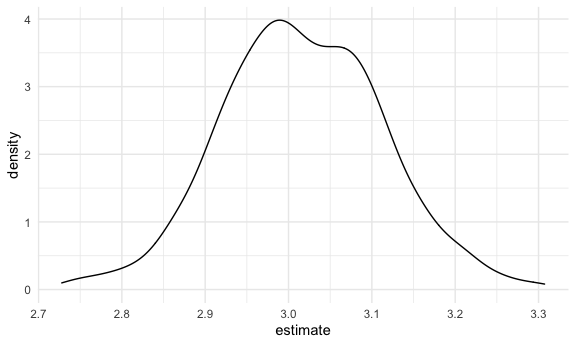
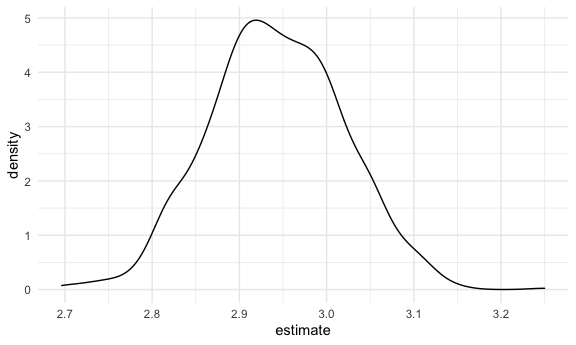
final

diff --git a/bootstrapping.md b/bootstrapping.md
@@ -45,8 +45,8 @@ lm(y ~ x, data = sim_df_const) %>%
 
 | term        | estimate | std.error | statistic | p.value |
 | :---------- | -------: | --------: | --------: | ------: |
-| (Intercept) |    2.065 |     0.086 |    23.998 |       0 |
-| x           |    2.991 |     0.061 |    49.302 |       0 |
+| (Intercept) |    1.917 |     0.084 |    22.877 |       0 |
+| x           |    3.067 |     0.060 |    51.385 |       0 |
 
 ``` r
 lm(y ~ x, data = sim_df_nonconst) %>% 
@@ -56,8 +56,8 @@ lm(y ~ x, data = sim_df_nonconst) %>%
 
 | term        | estimate | std.error | statistic | p.value |
 | :---------- | -------: | --------: | --------: | ------: |
-| (Intercept) |    2.013 |     0.088 |    22.758 |       0 |
-| x           |    3.023 |     0.062 |    48.476 |       0 |
+| (Intercept) |    2.098 |     0.084 |    25.057 |       0 |
+| x           |    2.939 |     0.060 |    49.292 |       0 |
 
 ## draw one bootstrap sample
 
@@ -125,18 +125,18 @@ boot_straps %>% pull(strap_sample) %>% .[[1]]
 ```
 
     ## # A tibble: 250 x 3
-    ##         x    error     y
-    ##     <dbl>    <dbl> <dbl>
-    ##  1  1.94  -0.716    7.10
-    ##  2 -1.13  -0.0438  -1.43
-    ##  3  1.38   0.00406  6.15
-    ##  4  0.337 -0.391    2.62
-    ##  5  0.815  0.480    4.92
-    ##  6  0.982  0.487    5.43
-    ##  7  0.406 -0.479    2.74
-    ##  8  1.07  -0.781    4.43
-    ##  9  0.156 -0.00644  2.46
-    ## 10  2.40   1.71    10.9 
+    ##         x   error      y
+    ##     <dbl>   <dbl>  <dbl>
+    ##  1  1.03  -0.421   4.67 
+    ##  2  1.00  -0.251   4.75 
+    ##  3  1.24  -0.982   4.73 
+    ##  4  0.465 -0.144   3.25 
+    ##  5  2.64  -0.399   9.51 
+    ##  6  1.38  -0.375   5.75 
+    ##  7  1.38  -0.375   5.75 
+    ##  8 -0.340 -0.0445  0.935
+    ##  9  1.23   0.155   5.84 
+    ## 10  3.69  -1.07   12.0  
     ## # … with 240 more rows
 
 ``` r
@@ -148,34 +148,34 @@ boot_straps %>%
 
     ## [[1]]
     ## # A tibble: 250 x 3
-    ##         x   error       y
-    ##     <dbl>   <dbl>   <dbl>
-    ##  1 -1.13  -0.0438 -1.43  
-    ##  2 -1.01  -0.596  -1.64  
-    ##  3 -1.01  -0.596  -1.64  
-    ##  4 -0.806  0.754   0.336 
-    ##  5 -0.806  0.754   0.336 
-    ##  6 -0.806  0.754   0.336 
-    ##  7 -0.625 -0.0889  0.0369
-    ##  8 -0.556 -0.614  -0.282 
-    ##  9 -0.488 -0.402   0.134 
-    ## 10 -0.483  0.764   1.31  
+    ##         x  error       y
+    ##     <dbl>  <dbl>   <dbl>
+    ##  1 -1.78  -1.40  -4.73  
+    ##  2 -1.78  -1.40  -4.73  
+    ##  3 -1.70   1.44  -1.67  
+    ##  4 -1.70   1.44  -1.67  
+    ##  5 -1.70   1.44  -1.67  
+    ##  6 -1.66   1.99  -0.999 
+    ##  7 -1.66   1.99  -0.999 
+    ##  8 -0.955  1.04   0.177 
+    ##  9 -0.955  1.04   0.177 
+    ## 10 -0.868  0.537 -0.0678
     ## # … with 240 more rows
     ## 
     ## [[2]]
     ## # A tibble: 250 x 3
-    ##         x   error       y
-    ##     <dbl>   <dbl>   <dbl>
-    ##  1 -1.13  -0.0438 -1.43  
-    ##  2 -1.01  -0.596  -1.64  
-    ##  3 -1.01  -0.596  -1.64  
-    ##  4 -1.01  -0.596  -1.64  
-    ##  5 -0.806  0.754   0.336 
-    ##  6 -0.806  0.754   0.336 
-    ##  7 -0.806  0.754   0.336 
-    ##  8 -0.732 -0.193  -0.389 
-    ##  9 -0.732 -0.193  -0.389 
-    ## 10 -0.625 -0.0889  0.0369
+    ##         x    error         y
+    ##     <dbl>    <dbl>     <dbl>
+    ##  1 -1.78  -1.40    -4.73    
+    ##  2 -1.66   1.99    -0.999   
+    ##  3 -1.66   1.99    -0.999   
+    ##  4 -0.868  0.537   -0.0678  
+    ##  5 -0.700  1.18     1.08    
+    ##  6 -0.700  1.18     1.08    
+    ##  7 -0.669  0.00815  0.000595
+    ##  8 -0.617  0.0335   0.181   
+    ##  9 -0.617  0.0335   0.181   
+    ## 10 -0.617  0.0335   0.181   
     ## # … with 240 more rows
 
 ``` r
@@ -210,16 +210,16 @@ boot_results
     ## # A tibble: 2,000 x 6
     ##    strap_number term        estimate std.error statistic   p.value
     ##           <int> <chr>          <dbl>     <dbl>     <dbl>     <dbl>
-    ##  1            1 (Intercept)     2.06    0.0782      26.3 1.15e- 73
-    ##  2            1 x               2.96    0.0540      54.7 1.75e-140
-    ##  3            2 (Intercept)     2.00    0.0852      23.5 5.12e- 65
-    ##  4            2 x               3.12    0.0579      53.9 6.85e-139
-    ##  5            3 (Intercept)     1.97    0.0809      24.3 1.45e- 67
-    ##  6            3 x               3.08    0.0576      53.4 5.22e-138
-    ##  7            4 (Intercept)     2.07    0.112       18.5 1.96e- 48
-    ##  8            4 x               2.91    0.0761      38.2 7.27e-106
-    ##  9            5 (Intercept)     2.08    0.0841      24.7 7.87e- 69
-    ## 10            5 x               2.98    0.0580      51.4 3.42e-134
+    ##  1            1 (Intercept)     2.13    0.0820      26.0 7.61e- 73
+    ##  2            1 x               2.84    0.0585      48.6 8.22e-129
+    ##  3            2 (Intercept)     2.03    0.0869      23.4 1.41e- 64
+    ##  4            2 x               2.99    0.0628      47.6 8.24e-127
+    ##  5            3 (Intercept)     2.02    0.0805      25.1 6.78e- 70
+    ##  6            3 x               3.05    0.0597      51.1 1.32e-133
+    ##  7            4 (Intercept)     2.10    0.0754      27.9 2.49e- 78
+    ##  8            4 x               3.00    0.0532      56.4 1.70e-143
+    ##  9            5 (Intercept)     2.00    0.0744      26.8 3.27e- 75
+    ## 10            5 x               2.99    0.0512      58.4 5.82e-147
     ## # … with 1,990 more rows
 
 What do we have now?
@@ -237,8 +237,8 @@ boot_results %>%
 
 | term        | mean\_est | boot\_se |
 | :---------- | --------: | -------: |
-| (Intercept) |     2.013 |    0.062 |
-| x           |     3.017 |    0.096 |
+| (Intercept) |     2.095 |    0.062 |
+| x           |     2.942 |    0.077 |
 
 ``` r
 ## bootstrap help us get the actual standard error under repeated sampling not assuming constant variance
@@ -270,8 +270,8 @@ boot_results %>%
     ## # A tibble: 2 x 3
     ##   term        ci_lower ci_upper
     ##   <chr>          <dbl>    <dbl>
-    ## 1 (Intercept)     1.89     2.14
-    ## 2 x               2.83     3.21
+    ## 1 (Intercept)     1.97     2.21
+    ## 2 x               2.80     3.09
 
 ``` r
 boot_straps %>% 
@@ -309,5 +309,88 @@ sim_df_nonconst %>%
 
 | term        | mean\_est | boot\_se |
 | :---------- | --------: | -------: |
-| (Intercept) |     2.013 |    0.062 |
-| x           |     3.024 |    0.096 |
+| (Intercept) |     2.095 |    0.062 |
+| x           |     2.942 |    0.077 |
+
+\#\# revisit nyc airbnb
+
+``` r
+data("nyc_airbnb")
+
+nyc_airbnb = 
+  nyc_airbnb %>% 
+  mutate(stars = review_scores_location / 2) %>% 
+  rename(
+    boro = neighbourhood_group,
+    neighborhood = neighbourhood) %>% 
+  filter(boro != "Staten Island") %>% 
+  select(price, stars, boro, neighborhood, room_type)
+```
+
+``` r
+nyc_airbnb %>% 
+  ggplot(aes(x = stars, y = price, color = room_type)) + 
+  geom_point() 
+```
+
+    ## Warning: Removed 9962 rows containing missing values (geom_point).
+
+<img src="bootstrapping_files/figure-gfm/unnamed-chunk-15-1.png" width="90%" />
+
+``` r
+nyc_airbnb %>% 
+  filter(boro == "Manhattan") %>% 
+  drop_na(stars) %>% 
+  modelr::bootstrap(n = 1000) %>% 
+  mutate(
+    models = map(strap, ~ lm(price ~ stars + room_type, data = .x)),
+    results = map(models, broom::tidy)) %>% 
+  select(results) %>% 
+  unnest(results) %>% 
+  group_by(term) %>% 
+  summarize(
+    mean_est = mean(estimate),
+    boot_se = sd(estimate)) %>% 
+  knitr::kable(digits = 3)
+```
+
+    ## `summarise()` ungrouping output (override with `.groups` argument)
+
+| term                   | mean\_est | boot\_se |
+| :--------------------- | --------: | -------: |
+| (Intercept)            |    94.593 |   30.605 |
+| room\_typePrivate room | \-123.983 |    3.355 |
+| room\_typeShared room  | \-153.541 |    3.154 |
+| stars                  |    27.324 |    6.234 |
+
+compare this to `lm`
+
+``` r
+nyc_airbnb %>% 
+  filter(boro == "Manhattan") %>% 
+  drop_na(stars) %>% 
+  lm(price ~ stars, data = .) %>% 
+  broom::tidy()
+```
+
+    ## # A tibble: 2 x 5
+    ##   term        estimate std.error statistic  p.value
+    ##   <chr>          <dbl>     <dbl>     <dbl>    <dbl>
+    ## 1 (Intercept)    -34.3     22.9      -1.50 1.35e- 1
+    ## 2 stars           43.3      4.78      9.07 1.39e-19
+
+``` r
+nyc_airbnb %>% 
+  filter(boro == "Manhattan") %>% 
+  drop_na(stars) %>% 
+  modelr::bootstrap(n = 1000) %>% 
+  mutate(
+    models = map(strap, ~ lm(price ~ stars + room_type, data = .x)),
+    results = map(models, broom::tidy)) %>% 
+  select(results) %>% 
+  unnest(results) %>% 
+  filter(term == "stars") %>% 
+  ggplot(aes(x = estimate)) + geom_density()
+```
+
+<img src="bootstrapping_files/figure-gfm/unnamed-chunk-18-1.png" width="90%" />
